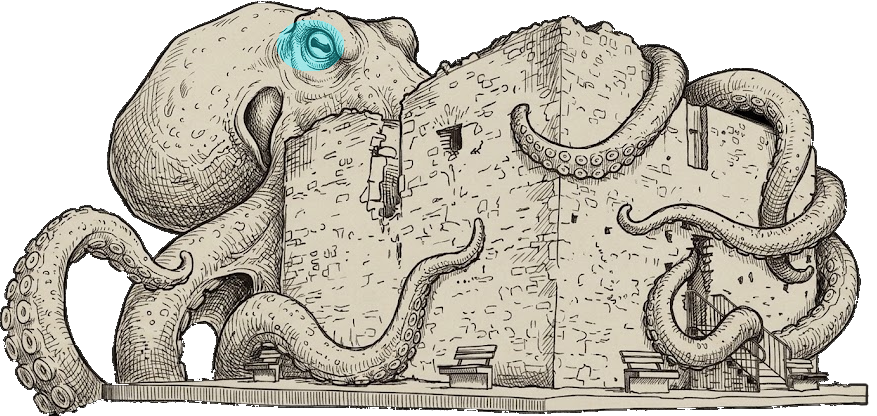
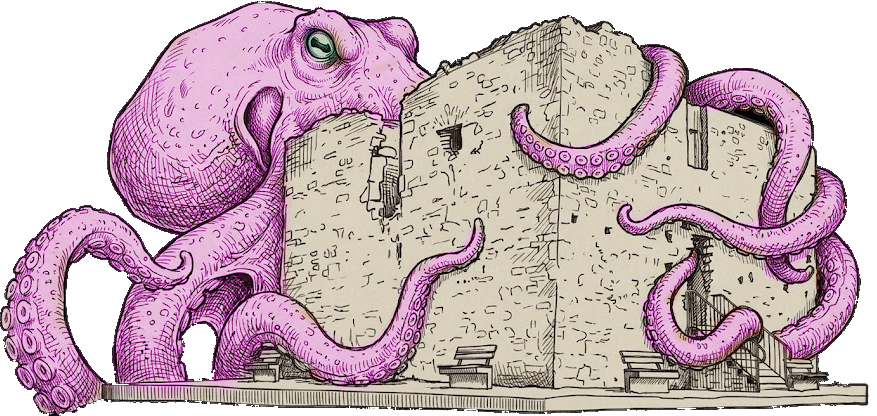
Hero: octotabor 4 (rosa Kopf, gefärbtes Auge) + sichtbarer Hintergrund-Fade
- bildmat/octotabor 4.png als assets/octotabor.png (eigenes blaues Auge entfällt)
- Gradient-Fade nach vorne gezogen (Lachs ab 70%, gehalten bis zum Fuß) —
  vorher verteilte sich der Verlauf auf die ganze Seitenhöhe und wirkte flat

Changed region(s): [[0.0, 0.0, 0.5542, 1.0], [0.5849, 0.0938, 0.9852, 0.875]]

diff --git a/assets/styles.css b/assets/styles.css
@@ -117,9 +117,11 @@ body {
   background:
     linear-gradient(to bottom,
       #f99b1f 0%,        /* Poster: sattes Orange oben */
-      var(--dusk-mid) 30%,
-      var(--dusk-low) 58%,
-      var(--horizon) 100%); /* Lachs unten wie das Poster */
+      #f39b37 16%,
+      #ec9e52 32%,
+      #e6a06d 50%,
+      var(--horizon) 70%,  /* Lachs erreicht — Poster-Fußzone */
+      var(--horizon) 100%); /* und gehalten, kein Zurückfallen */
   color: var(--cream);
   min-height: 100svh;
   display: flex;
